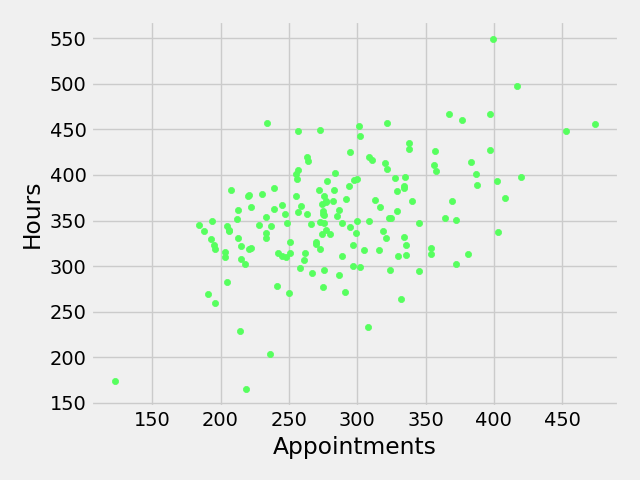
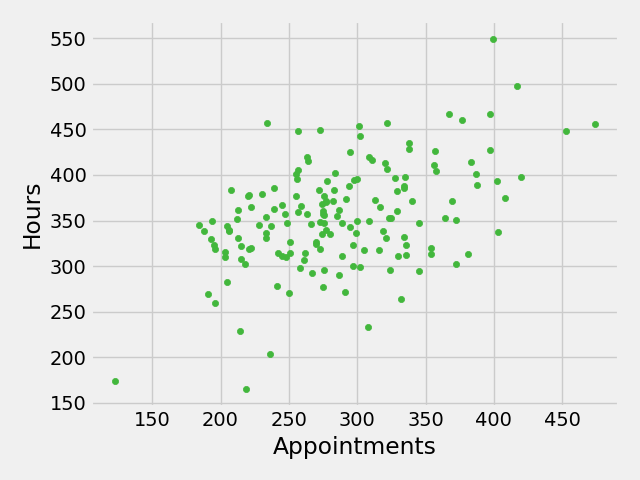
Chhhhanges

diff --git a/Conversion v Efficiency/Conversion Efficiency.py b/Conversion v Efficiency/Conversion Efficiency.py
@@ -60,15 +60,16 @@ conversion_v_hours_v_appointments.to_csv('conversion_v_hours_v_appointments.csv'
 con_hour_app = pd.read_csv('conversion_v_hours_v_appointments.csv')
 print(con_hour_app.head())
 
+"""
 con_hour_app.plot(kind='scatter', x="Conversion", y="Appointments")
 plt.tight_layout()
 # plt.savefig('Conversion by Appointment.png')
 con_hour_app.plot(kind='scatter', x="Conversion", y="Hours", color='#ff7856')
 plt.tight_layout()
 # plt.savefig('Conversion by Hours.png')
-con_hour_app.plot(kind='scatter', x="Appointments", y="Hours", color='#56ff5e')
+con_hour_app.plot(kind='scatter', x="Appointments", y="Hours", color='#42b73c')
 plt.tight_layout()
-plt.savefig('Appointments by Hours.png')
+# plt.savefig('Appointments by Hours.png')
 plt.show()
-
+"""
 
